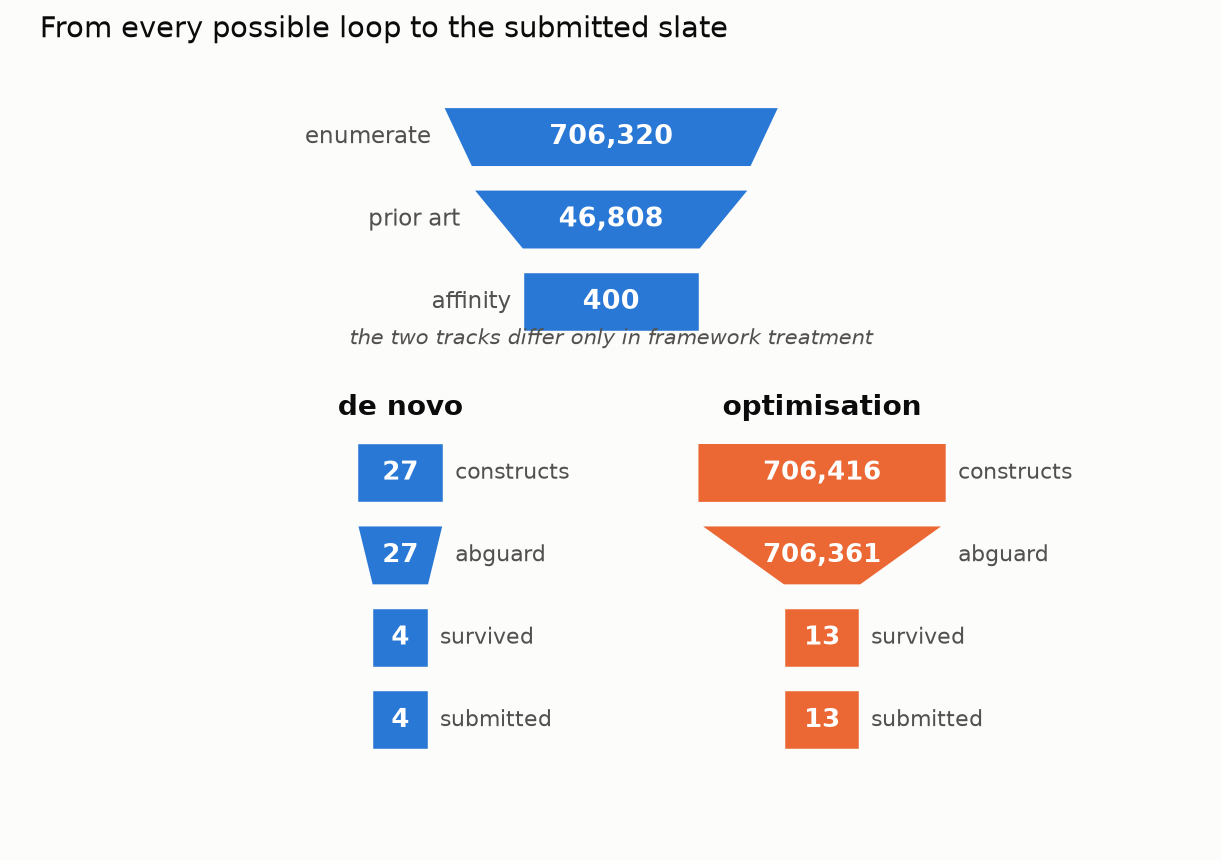
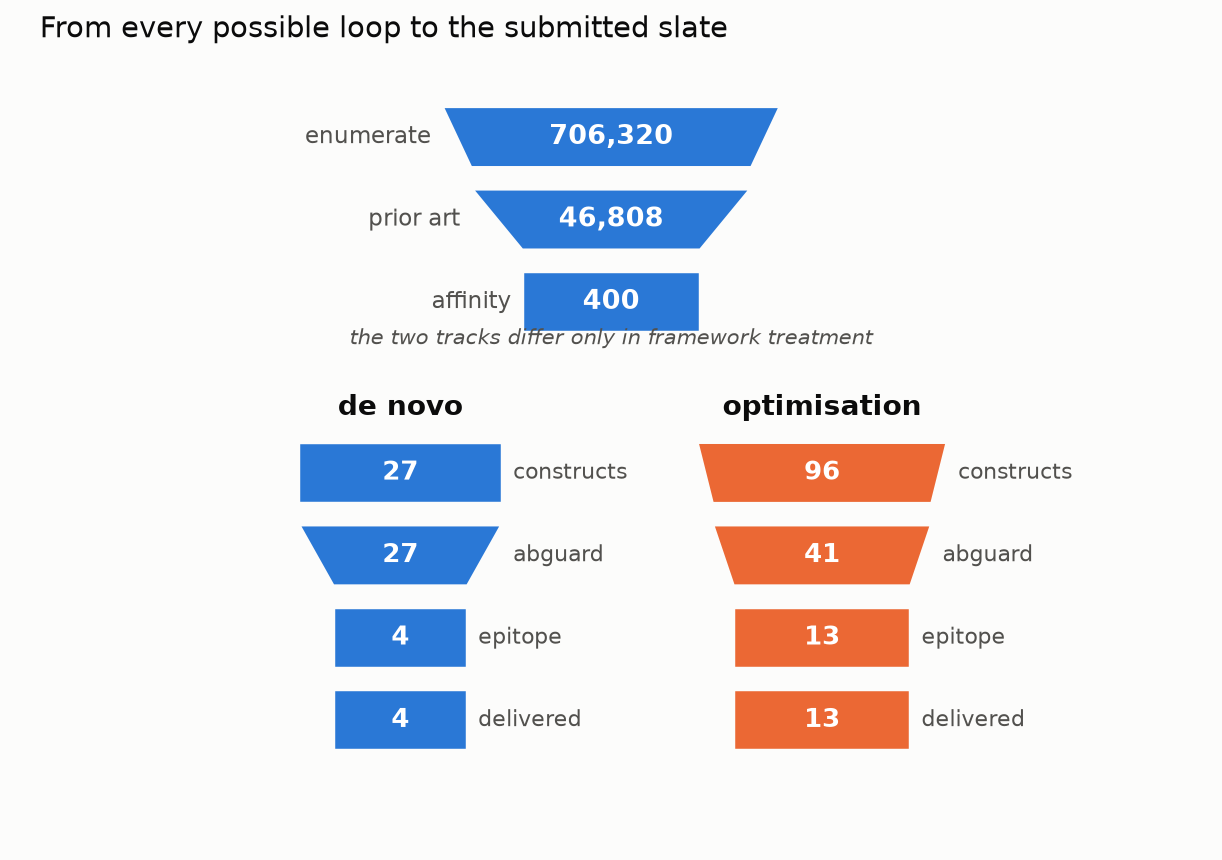
Upload remmaining files

diff --git a/her2_stopping_rule/cli.py b/her2_stopping_rule/cli.py
@@ -40,6 +40,7 @@ from .steps import (
     s05a_affinity,
     s06a_optimisation,
     s06b_denovo,
+    s06c_antifold,
     s07_fold,
     s08_calibrate,
     s09_epitope,
@@ -71,6 +72,10 @@ STEPS: Final[dict[str, tuple[StepFn, str]]] = {
         "ProteinMPNN redesigns the framework into the de novo track",
     ),
     "03b_rfd4": (s03b_rfd4.run, "RFD4-Proteina generates the de novo branch (GPU)"),
+    "06c_antifold": (
+        s06c_antifold.run,
+        "DE NOVO v2: AntiFold redesigns the framework with CDRs held fixed",
+    ),
     "02_guard": (s02_guard.run, "abguard verdict on every live construct"),
     "07_fold": (
         s07_fold.run,
